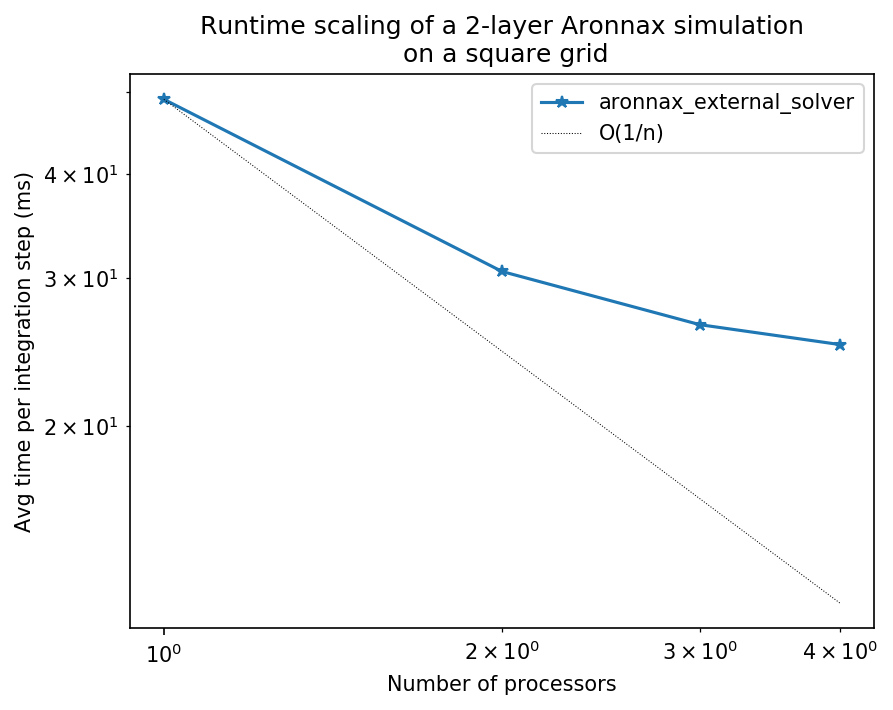
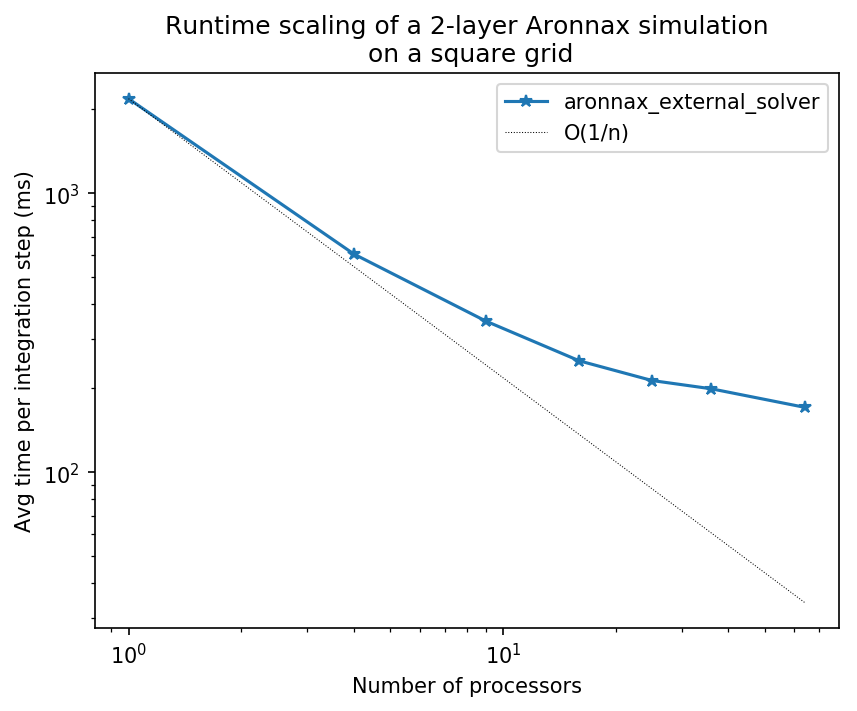
Benchmarks up to 64 cores on MIT cluster

diff --git a/docs/benchmarks.rst b/docs/benchmarks.rst
@@ -25,7 +25,7 @@ floor leads to substantially more expensive simulations.
 .. figure:: ../benchmarks/beta_plane_bump/beta_plane_bump_mpi_scaling.png
    :alt: run time for n-layer mode with MPI
 
-   n-layer runtime scaling with number of processors.
+   n-layer runtime for a 480x480x2 layer simulation scaling with number of processors.
    The speed increase with additional processors is not linear, but it
    is is noticeable.
 
@@ -46,8 +46,8 @@ The reduced gravity mode is substantially faster than the n-layer mode.
 .. figure:: ../benchmarks/beta_plane_bump_red_grav/beta_plane_bump_mpi_scaling.png
    :alt: run time for reduced gravity mode with MPI
 
-   Reduced-gravity runtime scaling with number of processors. 
-   As you can see, it's not great, at least on my laptop; your mileage may vary.
+   Reduced-gravity runtime for a 480x480x1.5 layer simulation scaling with number of processors. 
+   As you can see, it's not great; your mileage may vary.
    Luckily, this mode is already very fast.
 
 
